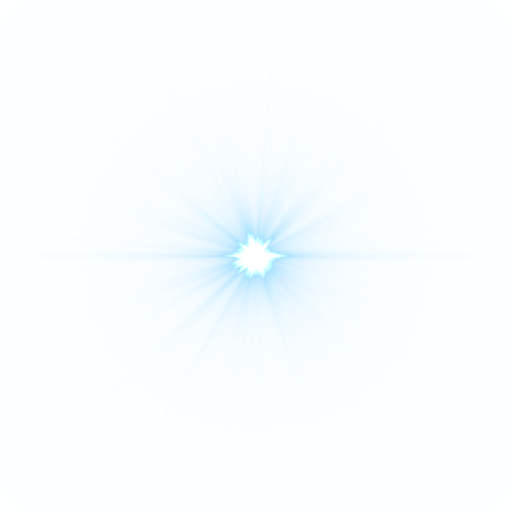
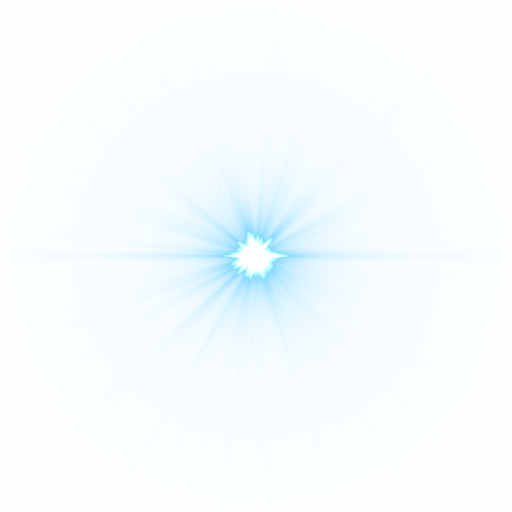
sync

Changed region(s): [[0.4062, 0.4062, 0.5938, 0.5938]]

diff --git a/script/js/main.js b/script/js/main.js
@@ -48,7 +48,6 @@ function addLight () {
 
 	scene.fog = new THREE.Fog(0x13161d, 3000, 6000);
 
-
 	var light1 = new THREE.PointLight( 0xffffff, 1, 10000 );
 		light1.position.set( 3615, -61, 2750 );
 		scene.add( light1 );
@@ -83,7 +82,20 @@ function addCamera () {
 
 function addLensFlare () {
 	var flareColor = new THREE.Color( 0xffffff );
-	lensFlare = new THREE.LensFlare( undefined, 700, 0.0, THREE.AdditiveBlending, flareColor);
+	lensFlare = new THREE.LensFlare( textureFlare1, 300, 0.0, THREE.NormalBlending, flareColor);
+	lensFlare.add( textureFlare2, 64, 0.1, THREE.AdditiveBlending );
+	lensFlare.add( textureFlare2, 32, 0.2, THREE.AdditiveBlending );
+	//console.log(textureFlare2)
+	//lensFlare.lensFlares.push( textureFlare2 );
+	// lensFlare.add( textureFlare2, 512, 0.0, THREE.AdditiveBlending );
+	// lensFlare.add( textureFlare2, 512, 0.0, THREE.AdditiveBlending );
+
+	// lensFlare.add( textureFlare3, 60, 0.6, THREE.AdditiveBlending );
+	// lensFlare.add( textureFlare3, 70, 0.7, THREE.AdditiveBlending );
+	// lensFlare.add( textureFlare3, 120, 0.9, THREE.AdditiveBlending );
+	// lensFlare.add( textureFlare3, 70, 1.0, THREE.AdditiveBlending );
+	//x: -1527.008, y: 2502.779999999999, z: 1431.912
+	lensFlare.position.set( -1527, 2502, 1431 );
 	scene.add( lensFlare );
 }
 

diff --git a/script/js/objectLoader.js b/script/js/objectLoader.js
@@ -56,6 +56,13 @@ function loadAssets () {
 	// loadMaterials();
 	// loadAnimations();
 	//loadObject('text', undefined, addToScene, text);
+	textureFlare1 = THREE.ImageUtils.loadTexture( "media/LensFlare/Flare_1.png", function(){},function(){
+	textureFlare2 = THREE.ImageUtils.loadTexture( "media/LensFlare/Flare_2.png", function(){},function(){
+	textureFlare3 = THREE.ImageUtils.loadTexture( "media/LensFlare/Flare_3.png", function(){},function(){
+		addLensFlare();
+	} );
+	} );
+	} );
 	loadObject('cardinal_horizontal', undefined, addToScene, windowHorizontal);
 	loadObject('cardinal_slice', undefined, addToScene, slice, false);
 	loadObject('cardinal_vertical', undefined, addToScene, windowVertical, false);

diff --git a/script/js/preload.js b/script/js/preload.js
@@ -2,6 +2,9 @@ var imagesArray = [];
 	imagesArray.push("media/models/spacer.jpg");
 	imagesArray.push("media/models/p1_op.png");
 	imagesArray.push("media/models/p2_op.png");
+	imagesArray.push("media/LensFlare/Flare_1.png");
+	imagesArray.push("media/LensFlare/Flare_2.png");
+	imagesArray.push("media/LensFlare/Flare_3.png");
 
 	for(var i=0,l=imagesArray.length;i<l;i++){
 		var img = new Image();

diff --git a/script/js/dictionary.js b/script/js/dictionary.js
@@ -19,3 +19,5 @@ var initialMousePos = {};
 var zoomedOnSlice = undefined;
 var cardinal1materials, cardinal2materials, sliceMaterials;
 var windowHorizontal = {}, windowVertical = {}, slice = {};
+
+var textureFlare1, textureFlare2, textureFlare3;

diff --git a/script/js/events.js b/script/js/events.js
@@ -6,7 +6,7 @@ function addControls() {
     var hammer = new Hammer(container);
 
 	hammer.on('pan', function(ev) {
-    	bothWindowsPerspectivePan(ev);
+    	//bothWindowsPerspectivePan(ev);
 	});
 
 	hammer.on('panstart', function(ev) {
